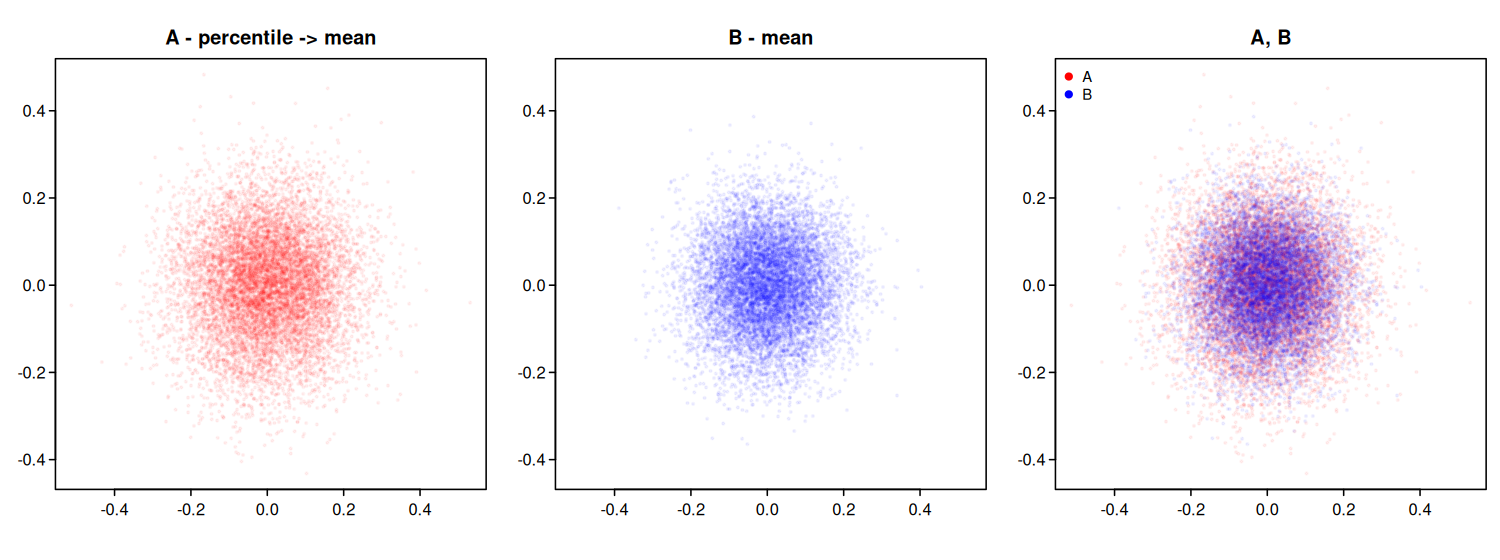
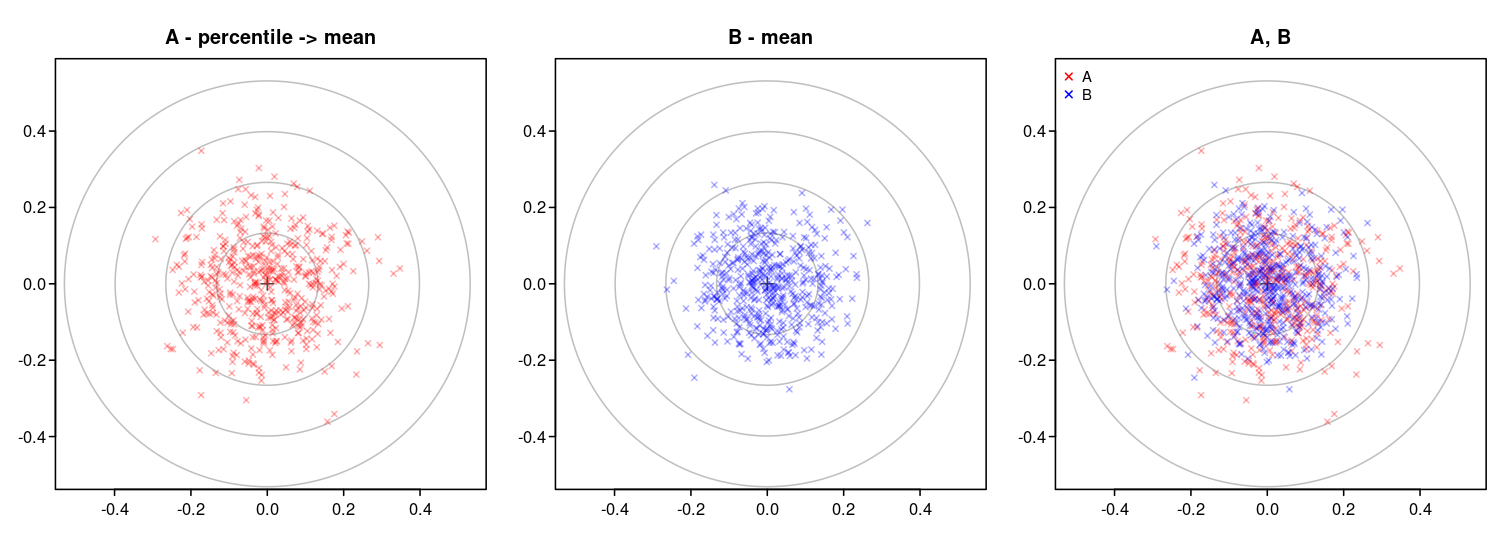
update

diff --git a/docs/posts/03wk-2.html b/docs/posts/03wk-2.html
@@ -459,14 +459,26 @@ window.Quarto = {
 <span id="cb13-9"><a href="#cb13-9" aria-hidden="true" tabindex="-1"></a>    A[i,] <span class="ot">&lt;-</span> <span class="fu">c</span>(<span class="fu">mean</span>(x_sorted[<span class="dv">41</span><span class="sc">:</span><span class="dv">60</span>]), <span class="fu">mean</span>(y_sorted[<span class="dv">41</span><span class="sc">:</span><span class="dv">60</span>]))</span>
 <span id="cb13-10"><a href="#cb13-10" aria-hidden="true" tabindex="-1"></a>    B[i,] <span class="ot">&lt;-</span> <span class="fu">c</span>(<span class="fu">mean</span>(x), <span class="fu">mean</span>(y))</span>
 <span id="cb13-11"><a href="#cb13-11" aria-hidden="true" tabindex="-1"></a>}</span></code></pre></div><button title="Copy to Clipboard" class="code-copy-button"><i class="bi"></i></button></div>
-<div class="code-copy-outer-scaffold"><div class="sourceCode" id="cb14"><pre class="sourceCode r code-with-copy"><code class="sourceCode r"><span id="cb14-1"><a href="#cb14-1" aria-hidden="true" tabindex="-1"></a>lim_x <span class="ot">&lt;-</span> <span class="fu">range</span>(<span class="fu">c</span>(A[,<span class="dv">1</span>], B[,<span class="dv">1</span>]))</span>
-<span id="cb14-2"><a href="#cb14-2" aria-hidden="true" tabindex="-1"></a>lim_y <span class="ot">&lt;-</span> <span class="fu">range</span>(<span class="fu">c</span>(A[,<span class="dv">2</span>], B[,<span class="dv">2</span>]))</span>
-<span id="cb14-3"><a href="#cb14-3" aria-hidden="true" tabindex="-1"></a></span>
-<span id="cb14-4"><a href="#cb14-4" aria-hidden="true" tabindex="-1"></a><span class="fu">par</span>(<span class="at">mfrow=</span><span class="fu">c</span>(<span class="dv">1</span>,<span class="dv">3</span>))</span>
-<span id="cb14-5"><a href="#cb14-5" aria-hidden="true" tabindex="-1"></a><span class="fu">plot</span>(A[,<span class="dv">1</span>], A[,<span class="dv">2</span>], <span class="at">pch=</span><span class="dv">19</span>, <span class="at">col=</span><span class="fu">adjustcolor</span>(<span class="st">"red"</span>, <span class="fl">0.05</span>), <span class="at">xlab=</span><span class="st">""</span>, <span class="at">ylab=</span><span class="st">""</span>, <span class="at">xlim=</span>lim_x, <span class="at">ylim=</span>lim_y, <span class="at">main=</span><span class="st">"A - percentile -&gt; mean"</span>)</span>
-<span id="cb14-6"><a href="#cb14-6" aria-hidden="true" tabindex="-1"></a><span class="fu">plot</span>(B[,<span class="dv">1</span>], B[,<span class="dv">2</span>], <span class="at">pch=</span><span class="dv">19</span>, <span class="at">col=</span><span class="fu">adjustcolor</span>(<span class="st">"blue"</span>, <span class="fl">0.05</span>), <span class="at">xlab=</span><span class="st">""</span>, <span class="at">ylab=</span><span class="st">""</span>, <span class="at">xlim=</span>lim_x, <span class="at">ylim=</span>lim_y, <span class="at">main=</span><span class="st">"B - mean"</span>)</span>
-<span id="cb14-7"><a href="#cb14-7" aria-hidden="true" tabindex="-1"></a><span class="fu">plot</span>(A[,<span class="dv">1</span>], A[,<span class="dv">2</span>], <span class="at">pch=</span><span class="dv">19</span>, <span class="at">col=</span><span class="fu">adjustcolor</span>(<span class="st">"red"</span>, <span class="fl">0.05</span>), <span class="at">xlab=</span><span class="st">""</span>, <span class="at">ylab=</span><span class="st">""</span>, <span class="at">xlim=</span>lim_x, <span class="at">ylim=</span>lim_y, <span class="at">main=</span><span class="st">"A, B"</span>)</span>
-<span id="cb14-8"><a href="#cb14-8" aria-hidden="true" tabindex="-1"></a><span class="fu">points</span>(B[,<span class="dv">1</span>], B[,<span class="dv">2</span>], <span class="at">pch=</span><span class="dv">19</span>, <span class="at">col=</span><span class="fu">adjustcolor</span>(<span class="st">"blue"</span>, <span class="fl">0.05</span>))</span></code></pre></div><button title="Copy to Clipboard" class="code-copy-button"><i class="bi"></i></button></div>
+<div class="code-copy-outer-scaffold"><div class="sourceCode" id="cb14"><pre class="sourceCode r code-with-copy"><code class="sourceCode r"><span id="cb14-1"><a href="#cb14-1" aria-hidden="true" tabindex="-1"></a>target <span class="ot">&lt;-</span> <span class="cf">function</span>(c0, lim_x, lim_y) {</span>
+<span id="cb14-2"><a href="#cb14-2" aria-hidden="true" tabindex="-1"></a>  R <span class="ot">&lt;-</span> <span class="fu">max</span>(<span class="fu">abs</span>(lim_x <span class="sc">-</span> c0[<span class="dv">1</span>]), <span class="fu">abs</span>(lim_y <span class="sc">-</span> c0[<span class="dv">2</span>]))</span>
+<span id="cb14-3"><a href="#cb14-3" aria-hidden="true" tabindex="-1"></a>  t <span class="ot">&lt;-</span> <span class="fu">seq</span>(<span class="dv">0</span>, <span class="dv">2</span><span class="sc">*</span>pi, <span class="at">length=</span><span class="dv">200</span>)</span>
+<span id="cb14-4"><a href="#cb14-4" aria-hidden="true" tabindex="-1"></a>  <span class="cf">for</span> (r <span class="cf">in</span> R <span class="sc">*</span> (<span class="dv">1</span><span class="sc">:</span><span class="dv">4</span>)<span class="sc">/</span><span class="dv">4</span>) <span class="fu">lines</span>(c0[<span class="dv">1</span>] <span class="sc">+</span> r<span class="sc">*</span><span class="fu">cos</span>(t), c0[<span class="dv">2</span>] <span class="sc">+</span> r<span class="sc">*</span><span class="fu">sin</span>(t), <span class="at">col=</span><span class="st">"grey75"</span>)</span>
+<span id="cb14-5"><a href="#cb14-5" aria-hidden="true" tabindex="-1"></a>  <span class="fu">points</span>(c0[<span class="dv">1</span>], c0[<span class="dv">2</span>], <span class="at">pch=</span><span class="dv">3</span>, <span class="at">col=</span><span class="st">"grey30"</span>, <span class="at">cex=</span><span class="fl">1.2</span>)</span>
+<span id="cb14-6"><a href="#cb14-6" aria-hidden="true" tabindex="-1"></a>}</span>
+<span id="cb14-7"><a href="#cb14-7" aria-hidden="true" tabindex="-1"></a></span>
+<span id="cb14-8"><a href="#cb14-8" aria-hidden="true" tabindex="-1"></a>lim_x <span class="ot">&lt;-</span> <span class="fu">range</span>(<span class="fu">c</span>(A[,<span class="dv">1</span>], B[,<span class="dv">1</span>]))</span>
+<span id="cb14-9"><a href="#cb14-9" aria-hidden="true" tabindex="-1"></a>lim_y <span class="ot">&lt;-</span> <span class="fu">range</span>(<span class="fu">c</span>(A[,<span class="dv">2</span>], B[,<span class="dv">2</span>]))</span>
+<span id="cb14-10"><a href="#cb14-10" aria-hidden="true" tabindex="-1"></a>a <span class="ot">&lt;-</span> A[<span class="dv">1</span><span class="sc">:</span><span class="dv">500</span>,]; b <span class="ot">&lt;-</span> B[<span class="dv">1</span><span class="sc">:</span><span class="dv">500</span>,]</span>
+<span id="cb14-11"><a href="#cb14-11" aria-hidden="true" tabindex="-1"></a></span>
+<span id="cb14-12"><a href="#cb14-12" aria-hidden="true" tabindex="-1"></a><span class="fu">par</span>(<span class="at">mfrow=</span><span class="fu">c</span>(<span class="dv">1</span>,<span class="dv">3</span>))</span>
+<span id="cb14-13"><a href="#cb14-13" aria-hidden="true" tabindex="-1"></a><span class="fu">plot</span>(A, <span class="at">type=</span><span class="st">"n"</span>, <span class="at">xlab=</span><span class="st">""</span>, <span class="at">ylab=</span><span class="st">""</span>, <span class="at">xlim=</span>lim_x, <span class="at">ylim=</span>lim_y, <span class="at">asp=</span><span class="dv">1</span>, <span class="at">main=</span><span class="st">"A - percentile -&gt; mean"</span>); <span class="fu">target</span>(<span class="fu">c</span>(<span class="dv">0</span>,<span class="dv">0</span>), lim_x, lim_y)</span>
+<span id="cb14-14"><a href="#cb14-14" aria-hidden="true" tabindex="-1"></a><span class="fu">points</span>(a, <span class="at">pch=</span><span class="dv">4</span>, <span class="at">cex=</span><span class="fl">0.7</span>, <span class="at">col=</span><span class="fu">adjustcolor</span>(<span class="st">"red"</span>, <span class="fl">0.3</span>))</span>
+<span id="cb14-15"><a href="#cb14-15" aria-hidden="true" tabindex="-1"></a><span class="fu">plot</span>(B, <span class="at">type=</span><span class="st">"n"</span>, <span class="at">xlab=</span><span class="st">""</span>, <span class="at">ylab=</span><span class="st">""</span>, <span class="at">xlim=</span>lim_x, <span class="at">ylim=</span>lim_y, <span class="at">asp=</span><span class="dv">1</span>, <span class="at">main=</span><span class="st">"B - mean"</span>); <span class="fu">target</span>(<span class="fu">c</span>(<span class="dv">0</span>,<span class="dv">0</span>), lim_x, lim_y)</span>
+<span id="cb14-16"><a href="#cb14-16" aria-hidden="true" tabindex="-1"></a><span class="fu">points</span>(b, <span class="at">pch=</span><span class="dv">4</span>, <span class="at">cex=</span><span class="fl">0.7</span>, <span class="at">col=</span><span class="fu">adjustcolor</span>(<span class="st">"blue"</span>, <span class="fl">0.3</span>))</span>
+<span id="cb14-17"><a href="#cb14-17" aria-hidden="true" tabindex="-1"></a><span class="fu">plot</span>(A, <span class="at">type=</span><span class="st">"n"</span>, <span class="at">xlab=</span><span class="st">""</span>, <span class="at">ylab=</span><span class="st">""</span>, <span class="at">xlim=</span>lim_x, <span class="at">ylim=</span>lim_y, <span class="at">asp=</span><span class="dv">1</span>, <span class="at">main=</span><span class="st">"A, B"</span>); <span class="fu">target</span>(<span class="fu">c</span>(<span class="dv">0</span>,<span class="dv">0</span>), lim_x, lim_y)</span>
+<span id="cb14-18"><a href="#cb14-18" aria-hidden="true" tabindex="-1"></a><span class="fu">points</span>(a, <span class="at">pch=</span><span class="dv">4</span>, <span class="at">cex=</span><span class="fl">0.7</span>, <span class="at">col=</span><span class="fu">adjustcolor</span>(<span class="st">"red"</span>, <span class="fl">0.3</span>))</span>
+<span id="cb14-19"><a href="#cb14-19" aria-hidden="true" tabindex="-1"></a><span class="fu">points</span>(b, <span class="at">pch=</span><span class="dv">4</span>, <span class="at">cex=</span><span class="fl">0.7</span>, <span class="at">col=</span><span class="fu">adjustcolor</span>(<span class="st">"blue"</span>, <span class="fl">0.3</span>))</span>
+<span id="cb14-20"><a href="#cb14-20" aria-hidden="true" tabindex="-1"></a><span class="fu">legend</span>(<span class="st">"topleft"</span>, <span class="at">legend=</span><span class="fu">c</span>(<span class="st">"A"</span>, <span class="st">"B"</span>), <span class="at">pch=</span><span class="dv">4</span>, <span class="at">col=</span><span class="fu">c</span>(<span class="st">"red"</span>, <span class="st">"blue"</span>), <span class="at">bty=</span><span class="st">"n"</span>, <span class="at">cex=</span><span class="fl">0.9</span>)</span></code></pre></div><button title="Copy to Clipboard" class="code-copy-button"><i class="bi"></i></button></div>
 <div class="quarto-figure quarto-figure-center">
 <figure class="figure">
 <p><img src="attachments/260921-강민-예제1비교.png" class="img-fluid figure-img"></p>
@@ -533,12 +545,17 @@ window.Quarto = {
 <span id="cb16-9"><a href="#cb16-9" aria-hidden="true" tabindex="-1"></a>}</span></code></pre></div><button title="Copy to Clipboard" class="code-copy-button"><i class="bi"></i></button></div>
 <div class="code-copy-outer-scaffold"><div class="sourceCode" id="cb17"><pre class="sourceCode r code-with-copy"><code class="sourceCode r"><span id="cb17-1"><a href="#cb17-1" aria-hidden="true" tabindex="-1"></a>lim_x <span class="ot">&lt;-</span> <span class="fu">range</span>(<span class="fu">c</span>(A[,<span class="dv">1</span>], B[,<span class="dv">1</span>]))</span>
 <span id="cb17-2"><a href="#cb17-2" aria-hidden="true" tabindex="-1"></a>lim_y <span class="ot">&lt;-</span> <span class="fu">range</span>(<span class="fu">c</span>(A[,<span class="dv">2</span>], B[,<span class="dv">2</span>]))</span>
-<span id="cb17-3"><a href="#cb17-3" aria-hidden="true" tabindex="-1"></a></span>
-<span id="cb17-4"><a href="#cb17-4" aria-hidden="true" tabindex="-1"></a><span class="fu">par</span>(<span class="at">mfrow=</span><span class="fu">c</span>(<span class="dv">1</span>,<span class="dv">3</span>))</span>
-<span id="cb17-5"><a href="#cb17-5" aria-hidden="true" tabindex="-1"></a><span class="fu">plot</span>(A[,<span class="dv">1</span>], A[,<span class="dv">2</span>], <span class="at">pch=</span><span class="dv">19</span>, <span class="at">col=</span><span class="fu">adjustcolor</span>(<span class="st">"red"</span>, <span class="fl">0.05</span>), <span class="at">xlab=</span><span class="st">""</span>, <span class="at">ylab=</span><span class="st">""</span>, <span class="at">xlim=</span>lim_x, <span class="at">ylim=</span>lim_y, <span class="at">main=</span><span class="st">"A - median"</span>)</span>
-<span id="cb17-6"><a href="#cb17-6" aria-hidden="true" tabindex="-1"></a><span class="fu">plot</span>(B[,<span class="dv">1</span>], B[,<span class="dv">2</span>], <span class="at">pch=</span><span class="dv">19</span>, <span class="at">col=</span><span class="fu">adjustcolor</span>(<span class="st">"blue"</span>, <span class="fl">0.05</span>), <span class="at">xlab=</span><span class="st">""</span>, <span class="at">ylab=</span><span class="st">""</span>, <span class="at">xlim=</span>lim_x, <span class="at">ylim=</span>lim_y, <span class="at">main=</span><span class="st">"B - mean"</span>)</span>
-<span id="cb17-7"><a href="#cb17-7" aria-hidden="true" tabindex="-1"></a><span class="fu">plot</span>(A[,<span class="dv">1</span>], A[,<span class="dv">2</span>], <span class="at">pch=</span><span class="dv">19</span>, <span class="at">col=</span><span class="fu">adjustcolor</span>(<span class="st">"red"</span>, <span class="fl">0.05</span>), <span class="at">xlab=</span><span class="st">""</span>, <span class="at">ylab=</span><span class="st">""</span>, <span class="at">xlim=</span>lim_x, <span class="at">ylim=</span>lim_y, <span class="at">main=</span><span class="st">"A, B"</span>)</span>
-<span id="cb17-8"><a href="#cb17-8" aria-hidden="true" tabindex="-1"></a><span class="fu">points</span>(B[,<span class="dv">1</span>], B[,<span class="dv">2</span>], <span class="at">pch=</span><span class="dv">19</span>, <span class="at">col=</span><span class="fu">adjustcolor</span>(<span class="st">"blue"</span>, <span class="fl">0.05</span>))</span></code></pre></div><button title="Copy to Clipboard" class="code-copy-button"><i class="bi"></i></button></div>
+<span id="cb17-3"><a href="#cb17-3" aria-hidden="true" tabindex="-1"></a>a <span class="ot">&lt;-</span> A[<span class="dv">1</span><span class="sc">:</span><span class="dv">500</span>,]; b <span class="ot">&lt;-</span> B[<span class="dv">1</span><span class="sc">:</span><span class="dv">500</span>,]</span>
+<span id="cb17-4"><a href="#cb17-4" aria-hidden="true" tabindex="-1"></a></span>
+<span id="cb17-5"><a href="#cb17-5" aria-hidden="true" tabindex="-1"></a><span class="fu">par</span>(<span class="at">mfrow=</span><span class="fu">c</span>(<span class="dv">1</span>,<span class="dv">3</span>))</span>
+<span id="cb17-6"><a href="#cb17-6" aria-hidden="true" tabindex="-1"></a><span class="fu">plot</span>(A, <span class="at">type=</span><span class="st">"n"</span>, <span class="at">xlab=</span><span class="st">""</span>, <span class="at">ylab=</span><span class="st">""</span>, <span class="at">xlim=</span>lim_x, <span class="at">ylim=</span>lim_y, <span class="at">asp=</span><span class="dv">1</span>, <span class="at">main=</span><span class="st">"A - median"</span>); <span class="fu">target</span>(<span class="fu">c</span>(<span class="dv">0</span>,<span class="dv">0</span>), lim_x, lim_y)</span>
+<span id="cb17-7"><a href="#cb17-7" aria-hidden="true" tabindex="-1"></a><span class="fu">points</span>(a, <span class="at">pch=</span><span class="dv">4</span>, <span class="at">cex=</span><span class="fl">0.7</span>, <span class="at">col=</span><span class="fu">adjustcolor</span>(<span class="st">"red"</span>, <span class="fl">0.3</span>))</span>
+<span id="cb17-8"><a href="#cb17-8" aria-hidden="true" tabindex="-1"></a><span class="fu">plot</span>(B, <span class="at">type=</span><span class="st">"n"</span>, <span class="at">xlab=</span><span class="st">""</span>, <span class="at">ylab=</span><span class="st">""</span>, <span class="at">xlim=</span>lim_x, <span class="at">ylim=</span>lim_y, <span class="at">asp=</span><span class="dv">1</span>, <span class="at">main=</span><span class="st">"B - mean"</span>); <span class="fu">target</span>(<span class="fu">c</span>(<span class="dv">0</span>,<span class="dv">0</span>), lim_x, lim_y)</span>
+<span id="cb17-9"><a href="#cb17-9" aria-hidden="true" tabindex="-1"></a><span class="fu">points</span>(b, <span class="at">pch=</span><span class="dv">4</span>, <span class="at">cex=</span><span class="fl">0.7</span>, <span class="at">col=</span><span class="fu">adjustcolor</span>(<span class="st">"blue"</span>, <span class="fl">0.3</span>))</span>
+<span id="cb17-10"><a href="#cb17-10" aria-hidden="true" tabindex="-1"></a><span class="fu">plot</span>(A, <span class="at">type=</span><span class="st">"n"</span>, <span class="at">xlab=</span><span class="st">""</span>, <span class="at">ylab=</span><span class="st">""</span>, <span class="at">xlim=</span>lim_x, <span class="at">ylim=</span>lim_y, <span class="at">asp=</span><span class="dv">1</span>, <span class="at">main=</span><span class="st">"A, B"</span>); <span class="fu">target</span>(<span class="fu">c</span>(<span class="dv">0</span>,<span class="dv">0</span>), lim_x, lim_y)</span>
+<span id="cb17-11"><a href="#cb17-11" aria-hidden="true" tabindex="-1"></a><span class="fu">points</span>(a, <span class="at">pch=</span><span class="dv">4</span>, <span class="at">cex=</span><span class="fl">0.7</span>, <span class="at">col=</span><span class="fu">adjustcolor</span>(<span class="st">"red"</span>, <span class="fl">0.3</span>))</span>
+<span id="cb17-12"><a href="#cb17-12" aria-hidden="true" tabindex="-1"></a><span class="fu">points</span>(b, <span class="at">pch=</span><span class="dv">4</span>, <span class="at">cex=</span><span class="fl">0.7</span>, <span class="at">col=</span><span class="fu">adjustcolor</span>(<span class="st">"blue"</span>, <span class="fl">0.3</span>))</span>
+<span id="cb17-13"><a href="#cb17-13" aria-hidden="true" tabindex="-1"></a><span class="fu">legend</span>(<span class="st">"topleft"</span>, <span class="at">legend=</span><span class="fu">c</span>(<span class="st">"A"</span>, <span class="st">"B"</span>), <span class="at">pch=</span><span class="dv">4</span>, <span class="at">col=</span><span class="fu">c</span>(<span class="st">"red"</span>, <span class="st">"blue"</span>), <span class="at">bty=</span><span class="st">"n"</span>, <span class="at">cex=</span><span class="fl">0.9</span>)</span></code></pre></div><button title="Copy to Clipboard" class="code-copy-button"><i class="bi"></i></button></div>
 <div class="quarto-figure quarto-figure-center">
 <figure class="figure">
 <p><img src="attachments/260921-강민-예제2비교.png" class="img-fluid figure-img" style="width:100.0%"></p>
@@ -604,12 +621,17 @@ window.Quarto = {
 <span id="cb19-9"><a href="#cb19-9" aria-hidden="true" tabindex="-1"></a>}</span></code></pre></div><button title="Copy to Clipboard" class="code-copy-button"><i class="bi"></i></button></div>
 <div class="code-copy-outer-scaffold"><div class="sourceCode" id="cb20"><pre class="sourceCode r code-with-copy"><code class="sourceCode r"><span id="cb20-1"><a href="#cb20-1" aria-hidden="true" tabindex="-1"></a>lim_x <span class="ot">&lt;-</span> <span class="fu">range</span>(<span class="fu">c</span>(A[,<span class="dv">1</span>], B[,<span class="dv">1</span>]))</span>
 <span id="cb20-2"><a href="#cb20-2" aria-hidden="true" tabindex="-1"></a>lim_y <span class="ot">&lt;-</span> <span class="fu">range</span>(<span class="fu">c</span>(A[,<span class="dv">2</span>], B[,<span class="dv">2</span>]))</span>
-<span id="cb20-3"><a href="#cb20-3" aria-hidden="true" tabindex="-1"></a></span>
-<span id="cb20-4"><a href="#cb20-4" aria-hidden="true" tabindex="-1"></a><span class="fu">par</span>(<span class="at">mfrow=</span><span class="fu">c</span>(<span class="dv">1</span>,<span class="dv">3</span>))</span>
-<span id="cb20-5"><a href="#cb20-5" aria-hidden="true" tabindex="-1"></a><span class="fu">plot</span>(A[,<span class="dv">1</span>], A[,<span class="dv">2</span>], <span class="at">pch=</span><span class="dv">19</span>, <span class="at">col=</span><span class="fu">adjustcolor</span>(<span class="st">"red"</span>, <span class="fl">0.05</span>), <span class="at">xlab=</span><span class="st">""</span>, <span class="at">ylab=</span><span class="st">""</span>, <span class="at">xlim=</span>lim_x, <span class="at">ylim=</span>lim_y, <span class="at">main=</span><span class="st">"A - (min+max)/2"</span>)</span>
-<span id="cb20-6"><a href="#cb20-6" aria-hidden="true" tabindex="-1"></a><span class="fu">plot</span>(B[,<span class="dv">1</span>], B[,<span class="dv">2</span>], <span class="at">pch=</span><span class="dv">19</span>, <span class="at">col=</span><span class="fu">adjustcolor</span>(<span class="st">"blue"</span>, <span class="fl">0.05</span>), <span class="at">xlab=</span><span class="st">""</span>, <span class="at">ylab=</span><span class="st">""</span>, <span class="at">xlim=</span>lim_x, <span class="at">ylim=</span>lim_y, <span class="at">main=</span><span class="st">"B - mean"</span>)</span>
-<span id="cb20-7"><a href="#cb20-7" aria-hidden="true" tabindex="-1"></a><span class="fu">plot</span>(A[,<span class="dv">1</span>], A[,<span class="dv">2</span>], <span class="at">pch=</span><span class="dv">19</span>, <span class="at">col=</span><span class="fu">adjustcolor</span>(<span class="st">"red"</span>, <span class="fl">0.05</span>), <span class="at">xlab=</span><span class="st">""</span>, <span class="at">ylab=</span><span class="st">""</span>, <span class="at">xlim=</span>lim_x, <span class="at">ylim=</span>lim_y, <span class="at">main=</span><span class="st">"A, B"</span>)</span>
-<span id="cb20-8"><a href="#cb20-8" aria-hidden="true" tabindex="-1"></a><span class="fu">points</span>(B[,<span class="dv">1</span>], B[,<span class="dv">2</span>], <span class="at">pch=</span><span class="dv">19</span>, <span class="at">col=</span><span class="fu">adjustcolor</span>(<span class="st">"blue"</span>, <span class="fl">0.05</span>))</span></code></pre></div><button title="Copy to Clipboard" class="code-copy-button"><i class="bi"></i></button></div>
+<span id="cb20-3"><a href="#cb20-3" aria-hidden="true" tabindex="-1"></a>a <span class="ot">&lt;-</span> A[<span class="dv">1</span><span class="sc">:</span><span class="dv">2000</span>,]; b <span class="ot">&lt;-</span> B[<span class="dv">1</span><span class="sc">:</span><span class="dv">2000</span>,]</span>
+<span id="cb20-4"><a href="#cb20-4" aria-hidden="true" tabindex="-1"></a></span>
+<span id="cb20-5"><a href="#cb20-5" aria-hidden="true" tabindex="-1"></a><span class="fu">par</span>(<span class="at">mfrow=</span><span class="fu">c</span>(<span class="dv">1</span>,<span class="dv">3</span>))</span>
+<span id="cb20-6"><a href="#cb20-6" aria-hidden="true" tabindex="-1"></a><span class="fu">plot</span>(A, <span class="at">type=</span><span class="st">"n"</span>, <span class="at">xlab=</span><span class="st">""</span>, <span class="at">ylab=</span><span class="st">""</span>, <span class="at">xlim=</span>lim_x, <span class="at">ylim=</span>lim_y, <span class="at">asp=</span><span class="dv">1</span>, <span class="at">main=</span><span class="st">"A - (min+max)/2"</span>); <span class="fu">target</span>(<span class="fu">c</span>(<span class="fl">0.5</span>,<span class="fl">0.5</span>), lim_x, lim_y)</span>
+<span id="cb20-7"><a href="#cb20-7" aria-hidden="true" tabindex="-1"></a><span class="fu">points</span>(a, <span class="at">pch=</span><span class="dv">4</span>, <span class="at">cex=</span><span class="fl">0.7</span>, <span class="at">col=</span><span class="fu">adjustcolor</span>(<span class="st">"red"</span>, <span class="fl">0.3</span>))</span>
+<span id="cb20-8"><a href="#cb20-8" aria-hidden="true" tabindex="-1"></a><span class="fu">plot</span>(B, <span class="at">type=</span><span class="st">"n"</span>, <span class="at">xlab=</span><span class="st">""</span>, <span class="at">ylab=</span><span class="st">""</span>, <span class="at">xlim=</span>lim_x, <span class="at">ylim=</span>lim_y, <span class="at">asp=</span><span class="dv">1</span>, <span class="at">main=</span><span class="st">"B - mean"</span>); <span class="fu">target</span>(<span class="fu">c</span>(<span class="fl">0.5</span>,<span class="fl">0.5</span>), lim_x, lim_y)</span>
+<span id="cb20-9"><a href="#cb20-9" aria-hidden="true" tabindex="-1"></a><span class="fu">points</span>(b, <span class="at">pch=</span><span class="dv">4</span>, <span class="at">cex=</span><span class="fl">0.7</span>, <span class="at">col=</span><span class="fu">adjustcolor</span>(<span class="st">"blue"</span>, <span class="fl">0.3</span>))</span>
+<span id="cb20-10"><a href="#cb20-10" aria-hidden="true" tabindex="-1"></a><span class="fu">plot</span>(A, <span class="at">type=</span><span class="st">"n"</span>, <span class="at">xlab=</span><span class="st">""</span>, <span class="at">ylab=</span><span class="st">""</span>, <span class="at">xlim=</span>lim_x, <span class="at">ylim=</span>lim_y, <span class="at">asp=</span><span class="dv">1</span>, <span class="at">main=</span><span class="st">"A, B"</span>); <span class="fu">target</span>(<span class="fu">c</span>(<span class="fl">0.5</span>,<span class="fl">0.5</span>), lim_x, lim_y)</span>
+<span id="cb20-11"><a href="#cb20-11" aria-hidden="true" tabindex="-1"></a><span class="fu">points</span>(a, <span class="at">pch=</span><span class="dv">4</span>, <span class="at">cex=</span><span class="fl">0.7</span>, <span class="at">col=</span><span class="fu">adjustcolor</span>(<span class="st">"red"</span>, <span class="fl">0.3</span>))</span>
+<span id="cb20-12"><a href="#cb20-12" aria-hidden="true" tabindex="-1"></a><span class="fu">points</span>(b, <span class="at">pch=</span><span class="dv">4</span>, <span class="at">cex=</span><span class="fl">0.7</span>, <span class="at">col=</span><span class="fu">adjustcolor</span>(<span class="st">"blue"</span>, <span class="fl">0.3</span>))</span>
+<span id="cb20-13"><a href="#cb20-13" aria-hidden="true" tabindex="-1"></a><span class="fu">legend</span>(<span class="st">"topleft"</span>, <span class="at">legend=</span><span class="fu">c</span>(<span class="st">"A"</span>, <span class="st">"B"</span>), <span class="at">pch=</span><span class="dv">4</span>, <span class="at">col=</span><span class="fu">c</span>(<span class="st">"red"</span>, <span class="st">"blue"</span>), <span class="at">bty=</span><span class="st">"n"</span>, <span class="at">cex=</span><span class="fl">0.9</span>)</span></code></pre></div><button title="Copy to Clipboard" class="code-copy-button"><i class="bi"></i></button></div>
 <div class="quarto-figure quarto-figure-center">
 <figure class="figure">
 <p><img src="attachments/260921-강민-예제3비교.png" class="img-fluid figure-img" style="width:100.0%"></p>

diff --git a/docs/posts/04wk-2.html b/docs/posts/04wk-2.html
@@ -465,12 +465,12 @@ window.Quarto = {
 <p>몇 개의 <span class="math inline">\(\mu\)</span>와 몇 개의 <span class="math inline">\(\sigma^2\)</span> 에 대한 가능도값을 구하면 아래와 같다.</p>
 <table class="caption-top table">
 <colgroup>
-<col style="width: 16%">
-<col style="width: 16%">
-<col style="width: 16%">
-<col style="width: 16%">
-<col style="width: 16%">
-<col style="width: 16%">
+<col style="width: 12%">
+<col style="width: 17%">
+<col style="width: 17%">
+<col style="width: 17%">
+<col style="width: 17%">
+<col style="width: 17%">
 </colgroup>
 <thead>
 <tr class="header">
@@ -585,7 +585,7 @@ window.Quarto = {
 <p><span class="math display">\[\log \frac{1}{\sqrt{2}\sigma} - \frac{(x_i-\mu)^2}{2\sigma^2}=-\frac{1}{2}\log2 -\frac{1}{2}\log \sigma^2-\frac{1}{2}\frac{(x_i-\mu)^2}{\sigma^2}\]</span></p>
 <p>이 된다. 따라서 결국에는 아래를 최소화하는 <span class="math inline">\(\sigma^2\)</span>를 찾아 주면 된다.</p>
 <p><span class="math display">\[\log \sigma^2 + \frac{(x_i-\mu)^2}{\sigma^2}\]</span></p>
-<p><span class="math inline">\(\sigma^2=(x_i-\mu)^2\times t\)</span> 로 놓으면 위 식은 <span class="math display">\[\log (x_i-\mu)^2 + \left(\log t + \frac{1}{t}\right)\]</span> 가 된다. 그런데 <span class="math inline">\(\log t + \frac{1}{t} \geq 1\)</span> 이므로 (왜냐하면 부등식 <span class="math inline">\(\log x \leq x-1\)</span> 이 성립하니까) 주어진 식은 <span class="math inline">\(t=1\)</span> 일 때 최소화된다. 따라서 <span class="math inline">\(i\)</span>번째 데이터는 <span class="math inline">\(\sigma^2=(x_i-\mu)^2\)</span> 이었으면 좋겠다고 주장한다.</p>
+<p><span class="math inline">\(\frac{\sigma^2}{(x_i-\mu)^2}=t\)</span> 로 치환하면 위 식은 <span class="math display">\[\log (x_i-\mu)^2 + \left(\log t + \frac{1}{t}\right)\]</span> 가 된다. 그런데 <span class="math inline">\(\log t + \frac{1}{t} \geq 1\)</span> 이므로 (왜냐하면 부등식 <span class="math inline">\(\log x \leq x-1\)</span> 이 성립하니까) 주어진 식은 <span class="math inline">\(t=1\)</span> 일 때 최소화된다. 따라서 <span class="math inline">\(i\)</span>번째 데이터는 <span class="math inline">\(\sigma^2=(x_i-\mu)^2\)</span> 이었으면 좋겠다고 주장한다.</p>
 <div class="callout callout-style-default callout-note callout-titled" title="보충설명">
 <div class="callout-header d-flex align-content-center collapsed" data-bs-toggle="collapse" data-bs-target=".callout-5-contents" aria-controls="callout-5" aria-expanded="false" aria-label="Toggle callout">
 <div class="callout-icon-container">

diff --git a/docs/index.html b/docs/index.html
@@ -236,7 +236,7 @@ Author
 </thead>
 <tbody class="list">
 
-<tr data-index="0" data-listing-date-sort="1790553600000" data-listing-file-modified-sort="1790576752859" data-listing-date-modified-sort="NaN" data-listing-reading-time-sort="8" data-listing-word-count-sort="1532" data-listing-title-sort="**04wk-2**: 최대가능도추정 (1)" data-listing-filename-sort="04wk-2.qmd">
+<tr data-index="0" data-listing-date-sort="1790553600000" data-listing-file-modified-sort="1790577142410" data-listing-date-modified-sort="NaN" data-listing-reading-time-sort="10" data-listing-word-count-sort="1872" data-listing-title-sort="**04wk-2**: 최대가능도추정 (1)" data-listing-filename-sort="04wk-2.qmd">
 <td>
 <span class="listing-date">Sep 28, 2026</span>
 </td>
@@ -249,7 +249,7 @@ Author
 
 </tr>
 
-<tr data-index="1" data-listing-date-sort="1789948800000" data-listing-file-modified-sort="1789994082442" data-listing-date-modified-sort="NaN" data-listing-reading-time-sort="7" data-listing-word-count-sort="1352" data-listing-title-sort="**03wk-2**: 추정" data-listing-filename-sort="03wk-2.qmd">
+<tr data-index="1" data-listing-date-sort="1789948800000" data-listing-file-modified-sort="1790577549000" data-listing-date-modified-sort="NaN" data-listing-reading-time-sort="8" data-listing-word-count-sort="1473" data-listing-title-sort="**03wk-2**: 추정" data-listing-filename-sort="03wk-2.qmd">
 <td>
 <span class="listing-date">Sep 21, 2026</span>
 </td>
